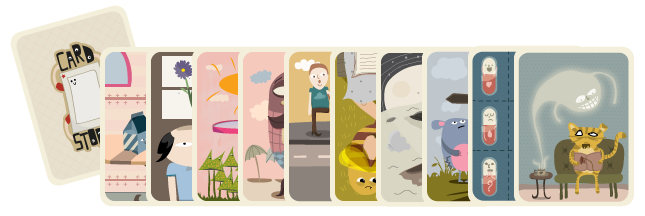
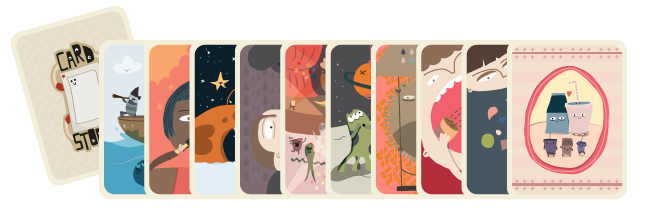
Integrate the new cards (closes #1017).
I also ran the card images through tinypng, reducing the file size for 60%.

diff --git a/static/js/jquery.cardstories.js b/static/js/jquery.cardstories.js
@@ -4965,7 +4965,17 @@
             'card040.png',
             'card041.png',
             'card042.png',
-            'card043.png'
+            'card043.png',
+            'card044.png',
+            'card045.png',
+            'card046.png',
+            'card047.png',
+            'card048.png',
+            'card049.png',
+            'card050.png',
+            'card051.png',
+            'card052.png',
+            'card053.png'
         ],
 
         unset_active: function(root) {

diff --git a/website/settings.py b/website/settings.py
@@ -158,7 +158,8 @@ PAYPAL_IDENTITY_TOKEN = 'hOLmlj16HX-J1WtvBVKzu8YdsD2zbGCRKW7b3kLFGvvg0UAN6oPJG17
 CS_EXTRA_CARD_PACK_PRICE = '4.50'
 CS_EXTRA_CARD_PACK_CURRENCY = 'EUR'
 CS_EXTRA_CARD_PACK_ITEM_ID = 'CardPack1'
-CS_EXTRA_CARD_PACK_CARD_IDS = [37, 38, 39, 40, 41, 41, 43]
+# Keep this in sync with the settings on the service (inside game.py).
+CS_EXTRA_CARD_PACK_CARD_IDS = [44, 45, 46, 47, 48, 49, 50, 51, 52, 53]
 
 PAYPAL_IMAGE = "https://www.paypal.com/en_US/i/btn/btn_paynow_LG.gif"
 PAYPAL_SANDBOX_IMAGE = "https://www.sandbox.paypal.com/en_US/i/btn/btn_buynow_LG.gif"

diff --git a/cardstories/game.py b/cardstories/game.py
@@ -37,7 +37,8 @@ class CardstoriesGame(Pollable):
     MIN_PICKED = 3 # there needs to be at least 3 cards to move to the voting phase
     MIN_VOTED = 2 # there needs to be at least 2 votes to complete the game
     NCARDS = 36
-    NCARDS_EARNED = 43
+    NCARDS_EARNED = 53
+    # Keep this in sync with the django CS_EXTRA_CARD_PACK_CARD_IDS setting.
     CARDS_FOR_SELL = [44, 45, 46, 47, 48, 49, 50, 51, 52, 53] # these cards can only be bought, not earned
     NPLAYERS = 6
     CARDS_PER_PLAYER = 6
